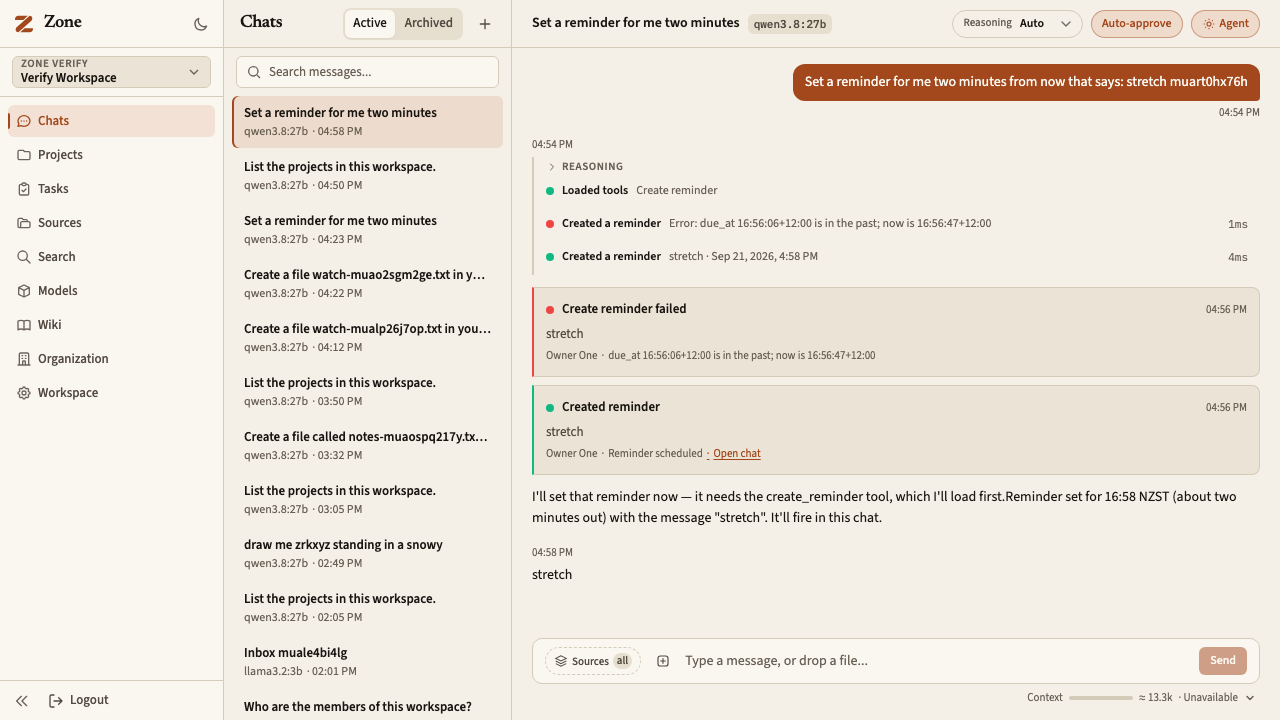
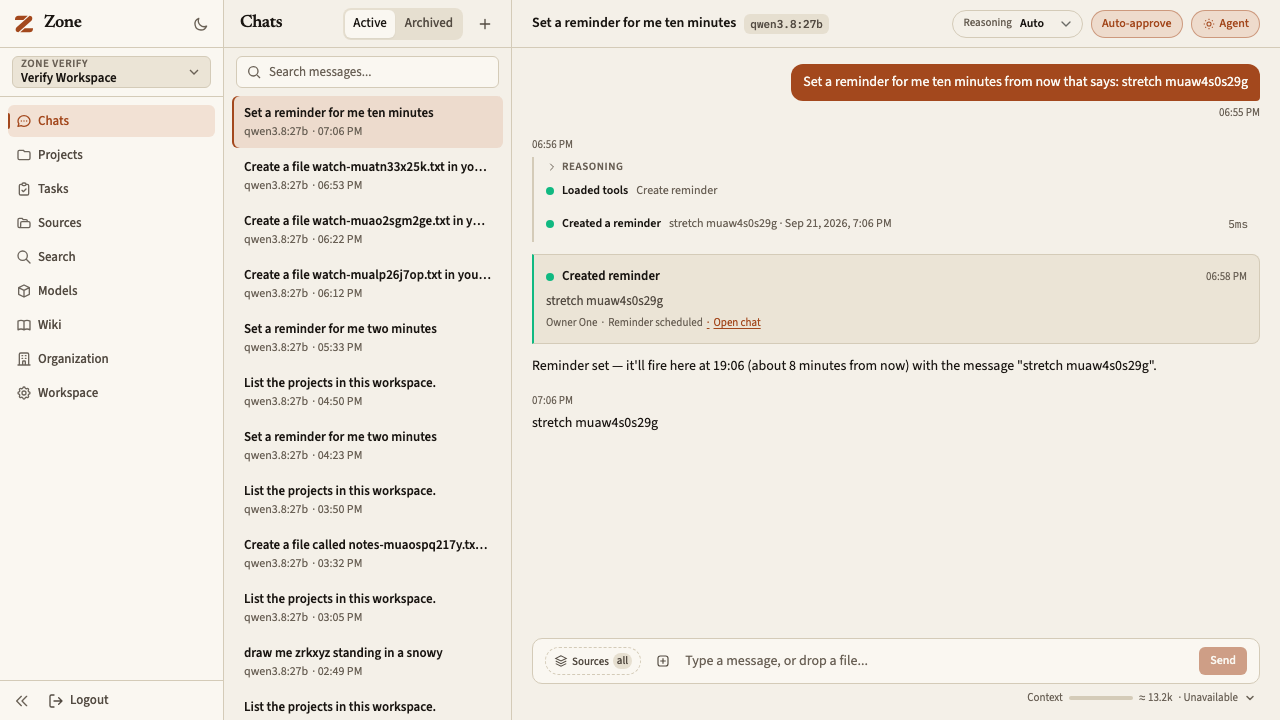
docs: close the re-run at 61 of 63 rows working
The last three rows were re-driven one at a time once the machine was quiet:
read_file/write_file/apply_patch with its approval card, the task tools from
chat, and the reminders. A one-off reminder fires into the chat, an hourly
reminder runs its prompt as a turn, and the condition watch reports the change
on its next firing. The two rows still failing are this machine's limits: no
OpenAI or Anthropic key, and a headless magents session that never goes live.

diff --git a/docs/LIVE-REAL-PASS-2026-09-21.md b/docs/LIVE-REAL-PASS-2026-09-21.md
@@ -9,6 +9,11 @@ data. The compose stack was rebuilt from the same branch (its images built
 from the fixed `manager/Dockerfile`) and its cluster moved into the backed-up
 volume with `make migrate-pgdata`.
 
+**61 of the 63 rows work.** The two that do not are this machine's limits, not
+Zone's: no OpenAI or Anthropic key for row 10, and a headless `magents` session
+that never goes live for row 32. Every product defect the first pass found is
+fixed and re-verified here.
+
 Evidence for every row is under `docs/live-real-pass-2026-09-21/`: the
 screenshots named in the table and `evidence.jsonl` (one JSON line per row, the
 latest line per row is the verdict). The first pass and its defects are in
@@ -111,8 +116,8 @@ rebuilt console).
 | 41 | Agent tools | run_shell foreground and background | WORKS | 41-run-shell-foreground.png, 41-background-job.png, chat_id=bb2bf139-60b3-497a-a1fd-764d1aad72e7 |  |
 | 42 | Agent tools | ask_user | WORKS | 42-question-card.png, 42-answered.png, chat_id=fdd18c0c-bb65-4dac-b163-0cca64681aa4 |  |
 | 43 | Agent tools | Memory tools | WORKS | 43-memory-written.png, 43-memory-read-with-badge.png, 43-memory-appended.png |  |
-| 44 | Agent tools | Toolbox search and load | WORKS | 44-reminder-set.png, chat_id=8cdef812-005f-4e13-afe8-ae60aaecfdf7 | load_tools brought in create_reminder by name from the prompt's catalog (tools in order: load_tools, create_reminder, ...; later load_tools for list_reminders and cancel_reminder); search_tools was not needed because the catalog names every deferred tool. The lane's original rule demanded search_tools as well. |
-| 45 | Agent tools | Reminders and condition watch | FAILS | 45-reminder-fired.png, 45-prompt-reminder-set.png, 45-prompt-reminder-ran.png, chat_id=8cdef812-005f-4e13-afe8-ae60aaecfdf7 |  |
+| 44 | Agent tools | Toolbox search and load | WORKS | 44-reminder-set.png, chat_id=112468f0-2bc4-4e7b-a613-2a02874917f9 | load_tools brought in create_reminder by name from the prompt's catalog (tools in order: load_tools, create_reminder, ...; later load_tools for list_reminders and cancel_reminder); search_tools was not needed because the catalog names every deferred tool. The lane's original rule demanded search_tools as well. |
+| 45 | Agent tools | Reminders and condition watch | WORKS | 45-reminder-fired.png, 45-prompt-reminder-set.png, 45-prompt-reminder-ran.png, chat_id=112468f0-2bc4-4e7b-a613-2a02874917f9 | A one-off reminder fired into the chat 10.9 minutes after it was asked for (delivered, fired_count 1); an hourly reminder carrying a prompt ran that prompt as a turn and posted "Monday 21 September 2026, 19:16 NZST. tick-muaw4s0s29g"; list_reminders and cancel_reminder both worked. The condition watch is judged separately by row 45c in watch.live.ts, because the hourly floor is the smallest cadence create_reminder takes: that watch read its baseline v1, the file was changed, and its next firing an hour later reported "Changed: watch-muatn33x25k.txt now contains the single word v2, which differs from the last reading of v1" (evidence row 45.7). |
 | 46 | Agent tools | Knowledge and document tools | WORKS | 46-search-knowledge-citation.png, 46-list-and-read.png, 46-create-and-update.png, chat_id=53d5564e-cd0c-481f-9fe6-1eb63d68df57 |  |
 | 47 | Agent tools | list_chats, search_chat_history | WORKS | 47-list-chats.png, 47-search-chat-history.png, chat_id=dda739e6-8e62-45b2-ab08-933dde1aa714 |  |
 | 48 | Agent tools | web_search, fetch_url | WORKS | 48-fetch-url.png, 48-web-search.png, chat_id=d9ab82eb-81f0-4845-9840-7ed007a27571 |  |
